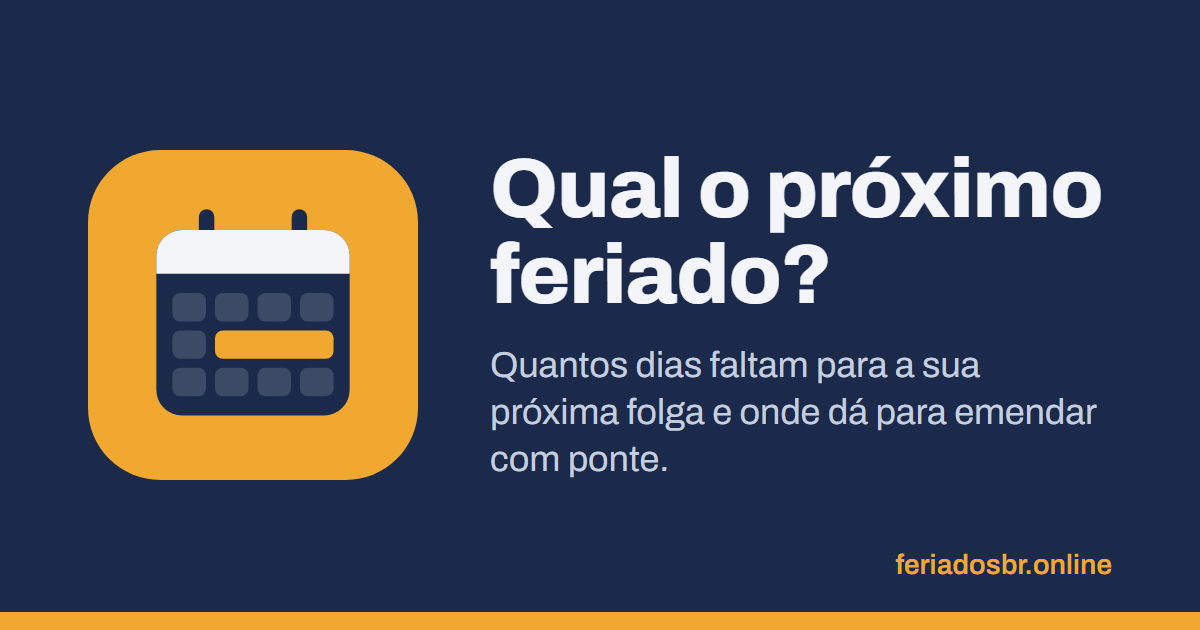
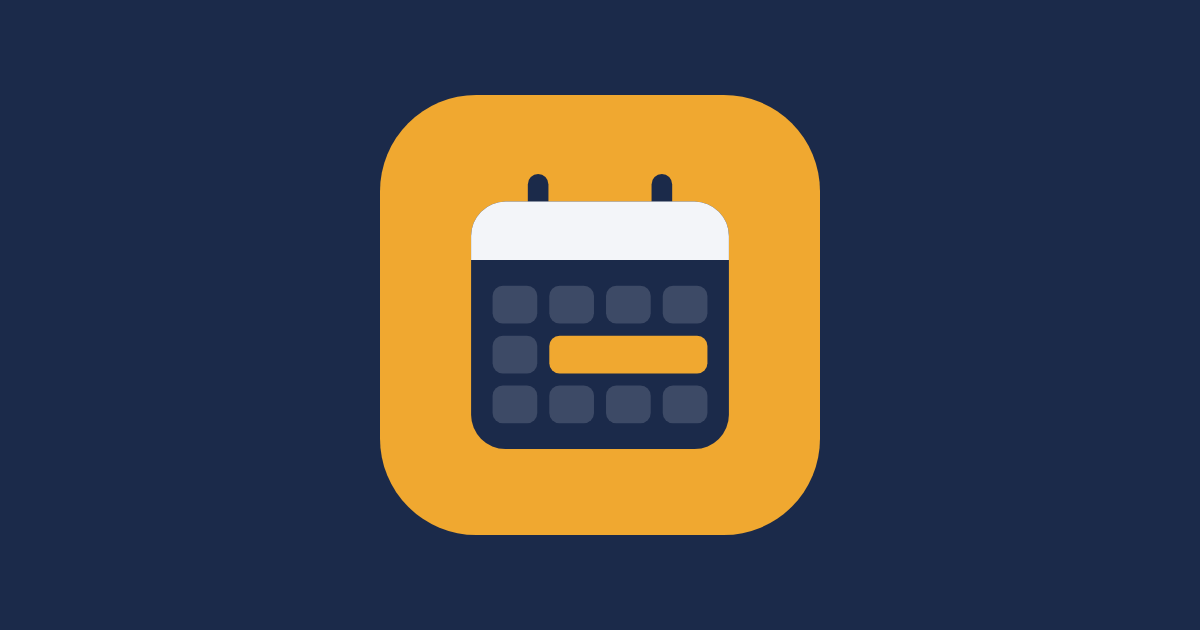
feat: imagem de compartilhamento passa a ser só o ícone do app
Ícone centralizado em 1200x630. O WhatsApp no desktop recorta o quadrado do meio e o texto da versão anterior ficava cortado.

diff --git a/design/imagem-og.html b/design/imagem-og.html
@@ -3,25 +3,14 @@
 <meta charset="utf-8">
 <title>Imagem de compartilhamento (1200×630)</title>
 <style>
-  @font-face {
-    font-family: "Archivo";
-    font-weight: 400 800;
-    font-stretch: 62% 125%;
-    src: url("../FeriadoTracker.Web/wwwroot/fonts/archivo-latin.woff2") format("woff2");
-  }
   html, body { margin: 0; }
+  /* Ícone centralizado: o WhatsApp no desktop recorta o quadrado do meio (630×630). */
   body {
     width: 1200px; height: 630px; overflow: hidden;
-    background: #1B2A4A; color: #F3F5F9;
-    font-family: "Archivo", system-ui, sans-serif;
-    display: flex; align-items: center; gap: 72px; padding: 0 88px; box-sizing: border-box;
-    position: relative;
+    background: #1B2A4A;
+    display: flex; align-items: center; justify-content: center;
   }
-  .icone { width: 330px; height: 330px; flex: none; display: block; }
-  h1 { margin: 0 0 24px; font-size: 84px; line-height: 1.02; font-weight: 800; letter-spacing: -1px; }
-  p { margin: 0; font-size: 36px; line-height: 1.3; font-weight: 400; color: #C5CEDF; }
-  .faixa { position: absolute; left: 0; right: 0; bottom: 0; height: 18px; background: #F0A830; }
-  .site { position: absolute; right: 88px; bottom: 50px; font-size: 28px; font-weight: 600; color: #F0A830; }
+  .icone { width: 440px; height: 440px; display: block; }
 </style>
 <body>
   <svg class="icone" xmlns="http://www.w3.org/2000/svg" viewBox="0 0 512 512">
@@ -37,10 +26,4 @@
     </g>
     <rect x="197" y="280" width="184" height="44" rx="12" fill="#F0A830"/>
   </svg>
-  <div>
-    <h1>Qual o próximo feriado?</h1>
-    <p>Quantos dias faltam para a sua próxima folga e onde dá para emendar com ponte.</p>
-  </div>
-  <span class="site">feriadosbr.online</span>
-  <div class="faixa"></div>
 </body>
